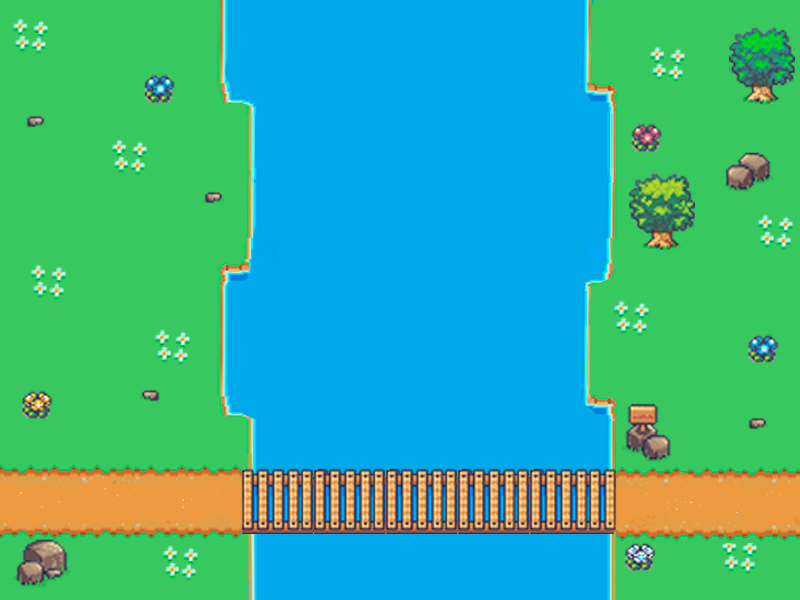
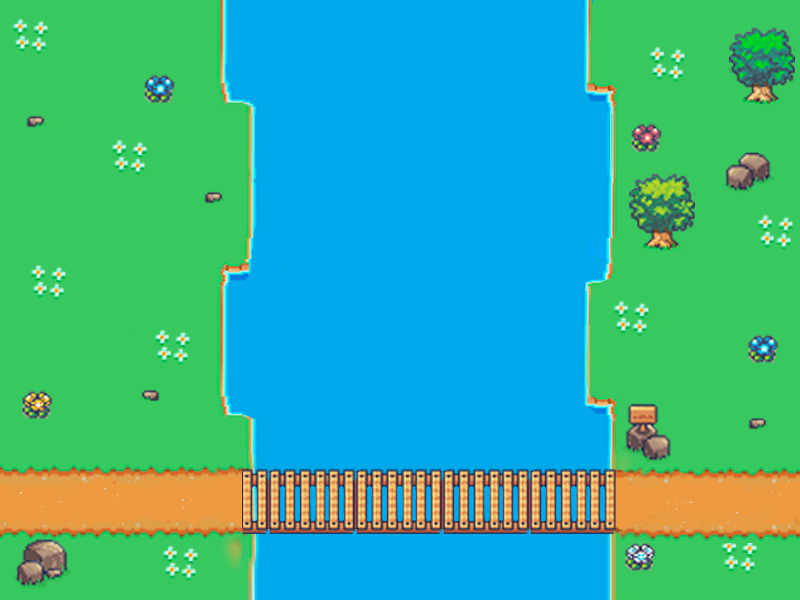
Salmons acabats i sistema de vides

Changed region(s): [[0.2812, 0.75, 0.8125, 0.96]]

diff --git a/JS/scenes/game.js b/JS/scenes/game.js
@@ -46,7 +46,13 @@ class GameScene extends Phaser.Scene {
         this.volCanviando = false;
         //SAUl
         {
-
+        
+        //Temporizadores
+        this.temporizadorVida = 100;
+        this.tempVidaFuncionando = false;
+        
+        this.temporizadorBaile = 100;
+        this.tempBaileFuncionando = false;
         }
 
         //Jaume
@@ -69,6 +75,7 @@ class GameScene extends Phaser.Scene {
         {
             //Sprites
             this.load.image('spr_mapa','../../ASSETS/mapaPrincipal.png');
+            this.load.image('spr_puente','../../ASSETS/puente.png');
             this.load.image('spr_cesta0','../../ASSETS/cesta_0.png');
             this.load.image('spr_cesta1','../../ASSETS/cesta_1.png');
             this.load.image('spr_cesta2','../../ASSETS/cesta_2.png');
@@ -81,6 +88,7 @@ class GameScene extends Phaser.Scene {
             
             //Hojas de sprite
             this.load.spritesheet('spr_oso','../../ASSETS/oso_64.png',{frameWidth: 64,frameHeight: 64});
+            this.load.spritesheet('spr_oso_repuesto','../../ASSETS/oso_32.png',{frameWidth: 32,frameHeight: 32});
             this.load.spritesheet('spr_salmon','../../ASSETS/spr_salmon.png',{frameWidth: 32,frameHeight: 32});          
             this.load.spritesheet('spr_raton','../../ASSETS/raton_32.png',{frameWidth: 32,frameHeight: 32});
         }
@@ -107,11 +115,12 @@ class GameScene extends Phaser.Scene {
         }       
         
         this.add.image(400,300,'spr_mapa');	
+        
         //Creación del jugador
         {
             //Instanciar Jugador.
             this.jugador = this.physics.add.sprite(300,480,'spr_oso');
-            
+            this.jugador.setDepth(3)
       
             
             //Animación de mover Jugador.
@@ -137,6 +146,7 @@ class GameScene extends Phaser.Scene {
         {
             //Instanciamos la cesta
             this.cesta = this.physics.add.sprite(70, 480,'spr_cesta0');
+<<<<<<< Updated upstream
             //Inicializamos el menu de pausa
             {
                 this.menuPausa = this.add.group();
@@ -157,6 +167,13 @@ class GameScene extends Phaser.Scene {
             }
            
             
+=======
+            this.puente = this.physics.add.sprite(400,300,'spr_puente');	
+            this.puente.setDepth(2)
+            this.vida1 = this.physics.add.sprite(670,300,'spr_oso_repuesto');
+            this.vida1.flipX = true;
+            this.vida2 = this.physics.add.sprite(740,390,'spr_oso_repuesto');
+>>>>>>> Stashed changes
         }
 
         //Definimos las colisiones.
@@ -171,6 +188,7 @@ class GameScene extends Phaser.Scene {
             this.salmon = new Salmon(this,this.jugador);
             this.salmon.create();
         }
+
 
         //Jaume
         {
@@ -268,7 +286,88 @@ class GameScene extends Phaser.Scene {
 
         //SAUl
         {
+            //Actualiza el comportamiento de los salmones
             this.salmon.update();
+            
+            //Actualiza el sprite de la cesta
+            if (this.datosPartida.peces >= 30){
+                this.cesta.setTexture('spr_cesta5')
+            }
+            else if (this.datosPartida.peces >= 20){
+                this.cesta.setTexture('spr_cesta4')
+            }
+            else if (this.datosPartida.peces >= 10){
+                this.cesta.setTexture('spr_cesta3')
+            }
+            else if (this.datosPartida.peces >= 3){
+                this.cesta.setTexture('spr_cesta2')
+            }
+            else if (this.datosPartida.peces > 0){
+                this.cesta.setTexture('spr_cesta1')
+            }
+            else{
+                this.cesta.setTexture('spr_cesta0')
+            }
+
+            //Al perder una vida, para pasar a la siguiente o mostrar puntuación al morir
+            if (this.tempVidaFuncionando){
+                this.temporizadorVida -= 1;
+            
+                if (this.datosPartida.vida > 0){
+                    switch (this.temporizadorVida)
+                    {                
+                        case (0):
+                            if (this.datosPartida.vida == 2) this.vida2.destroy();
+                            else this.vida1.destroy();
+                            this.ososVisibles();
+                            this.tempVidaFuncionando = false;
+                            break;
+                        case (20):
+                            this.ososNoVisibles();
+                            break;
+                        case (40):
+                            this.ososVisibles();
+                            break;
+                        case (60):
+                            this.ososNoVisibles();
+                            break;
+                        case (80):
+                            this.ososVisibles();
+                            break;
+                    }
+                }
+                else{ //GAME OVER
+                    this.etiPeces.setX(350);
+                    this.etiPeces.setY(250);
+                    this.jugador.setX(700);
+                    this.etiVida.visible = false;
+                    if (this.temporizadorVida < -100) loadpage("../");
+                }
+            }
+
+            if (this.tempBaileFuncionando){
+                this.temporizadorBaile -= 1;
+
+                switch (this.temporizadorBaile){
+                    case (0):
+                        this.giraOsos()
+                        this.tempBaileFuncionando = false
+                        break;
+                    case (20):
+                        this.giraOsos()
+                        break;
+                    case (40):
+                        this.giraOsos()
+                        break;
+                    case (60):
+                        this.giraOsos()
+                        break;
+                    case (80):
+                        this.giraOsos()
+                        break;
+
+                }
+            }
         }
 
         //Jaume
@@ -281,31 +380,45 @@ class GameScene extends Phaser.Scene {
 
     }
 
-    actualizaSpriteCesta(){
-        if (this.datosPartida.peces > 30){
-            this.cesta.setTexture('spr_cesta5')
-        }
-        else if (this.datosPartida.peces > 20){
-            this.cesta.setTexture('spr_cesta4')
-        }
-        else if (this.datosPartida.peces > 10){
-            this.cesta.setTexture('spr_cesta3')
-        }
-        else if (this.datosPartida.peces > 3){
-            this.cesta.setTexture('spr_cesta2')
-        }
-        else if (this.datosPartida.peces > 0){
-            this.cesta.setTexture('spr_cesta1')
-        }
-        else{
-            this.cesta.setTexture('spr_cesta0')
-        }
+    ososVisibles(){
+        if (this.datosPartida.vida == 2) this.vida2.visible = true;
+        else this.vida1.visible = true;
+        this.jugador.visible = true;
+    }
+    
+    ososNoVisibles(){
+        if (this.datosPartida.vida == 2) this.vida2.visible = false;
+        else this.vida1.visible = false;
+        this.jugador.visible = false;
+    }
+
+    osoPierdeVida(jugador){
+        jugador.setX(700);
+        
+        this.nPecesBoca = 0;
+        this.datosPartida.vida -= 1;
+        
+        this.temporizadorVida = 100;
+        this.tempVidaFuncionando = true;
+        this.ososNoVisibles();
+    }
+
+    giraOsos(){
+        this.vida1.flipX = !this.vida1.flipX
+        this.vida2.flipX = !this.vida2.flipX
+    }
+
+    ososBailando(){
+        this.temporizadorBaile = 100;
+        this.tempBaileFuncionando = true;
+        this.giraOsos();
     }
     
     osoPoneEnCesta(cesta,jugador){
         this.datosPartida.peces += this.nPecesBoca;
-        this.actualizaSpriteCesta()
         this.nPecesBoca = 0;
+        this.ososBailando();
+        //this.osoPierdeVida(jugador);
     }
 
     

diff --git a/JS/objects/salmon.js b/JS/objects/salmon.js
@@ -14,6 +14,9 @@ class Salmon{
         if (this.tiempo <= 0){
             this.invoca();
         }
+        for (let i = 0; i < this.nSalmones; i++){
+            if (this.arraySalmones[i].y > 620) this.arraySalmones[i].destroy();
+        }
     }
     invoca(){
         let vel = Phaser.Math.Between(30, 150);
@@ -22,12 +25,15 @@ class Salmon{
         
         this.arraySalmones[this.nSalmones] = this.escena.physics.add.sprite(posX,-16,'spr_salmon');
         this.arraySalmones[this.nSalmones].setVelocityY(vel);
+        this.arraySalmones[this.nSalmones].setDepth(1);
         
         { //Creamos la colision del salmon con el jugador.
             this.escena.physics.add.overlap(this.arraySalmones[this.nSalmones],this.jugador,(sal,jug)=>this.entroBocaOso(sal,jug));
-          
         }
+<<<<<<< Updated upstream
        
+=======
+>>>>>>> Stashed changes
         this.tiempo = tiempo;
         this.nSalmones += 1;
     }

diff --git a/HTML/options.html b/HTML/options.html
@@ -10,7 +10,7 @@
     </head>
     <body id="back">
         <div id="menu_background">
-            <h1> OPTIONS </h1>
+            <h1> OPCIONES </h1>
             <button onclick="menu()"> 
                 Volver
             </button>
